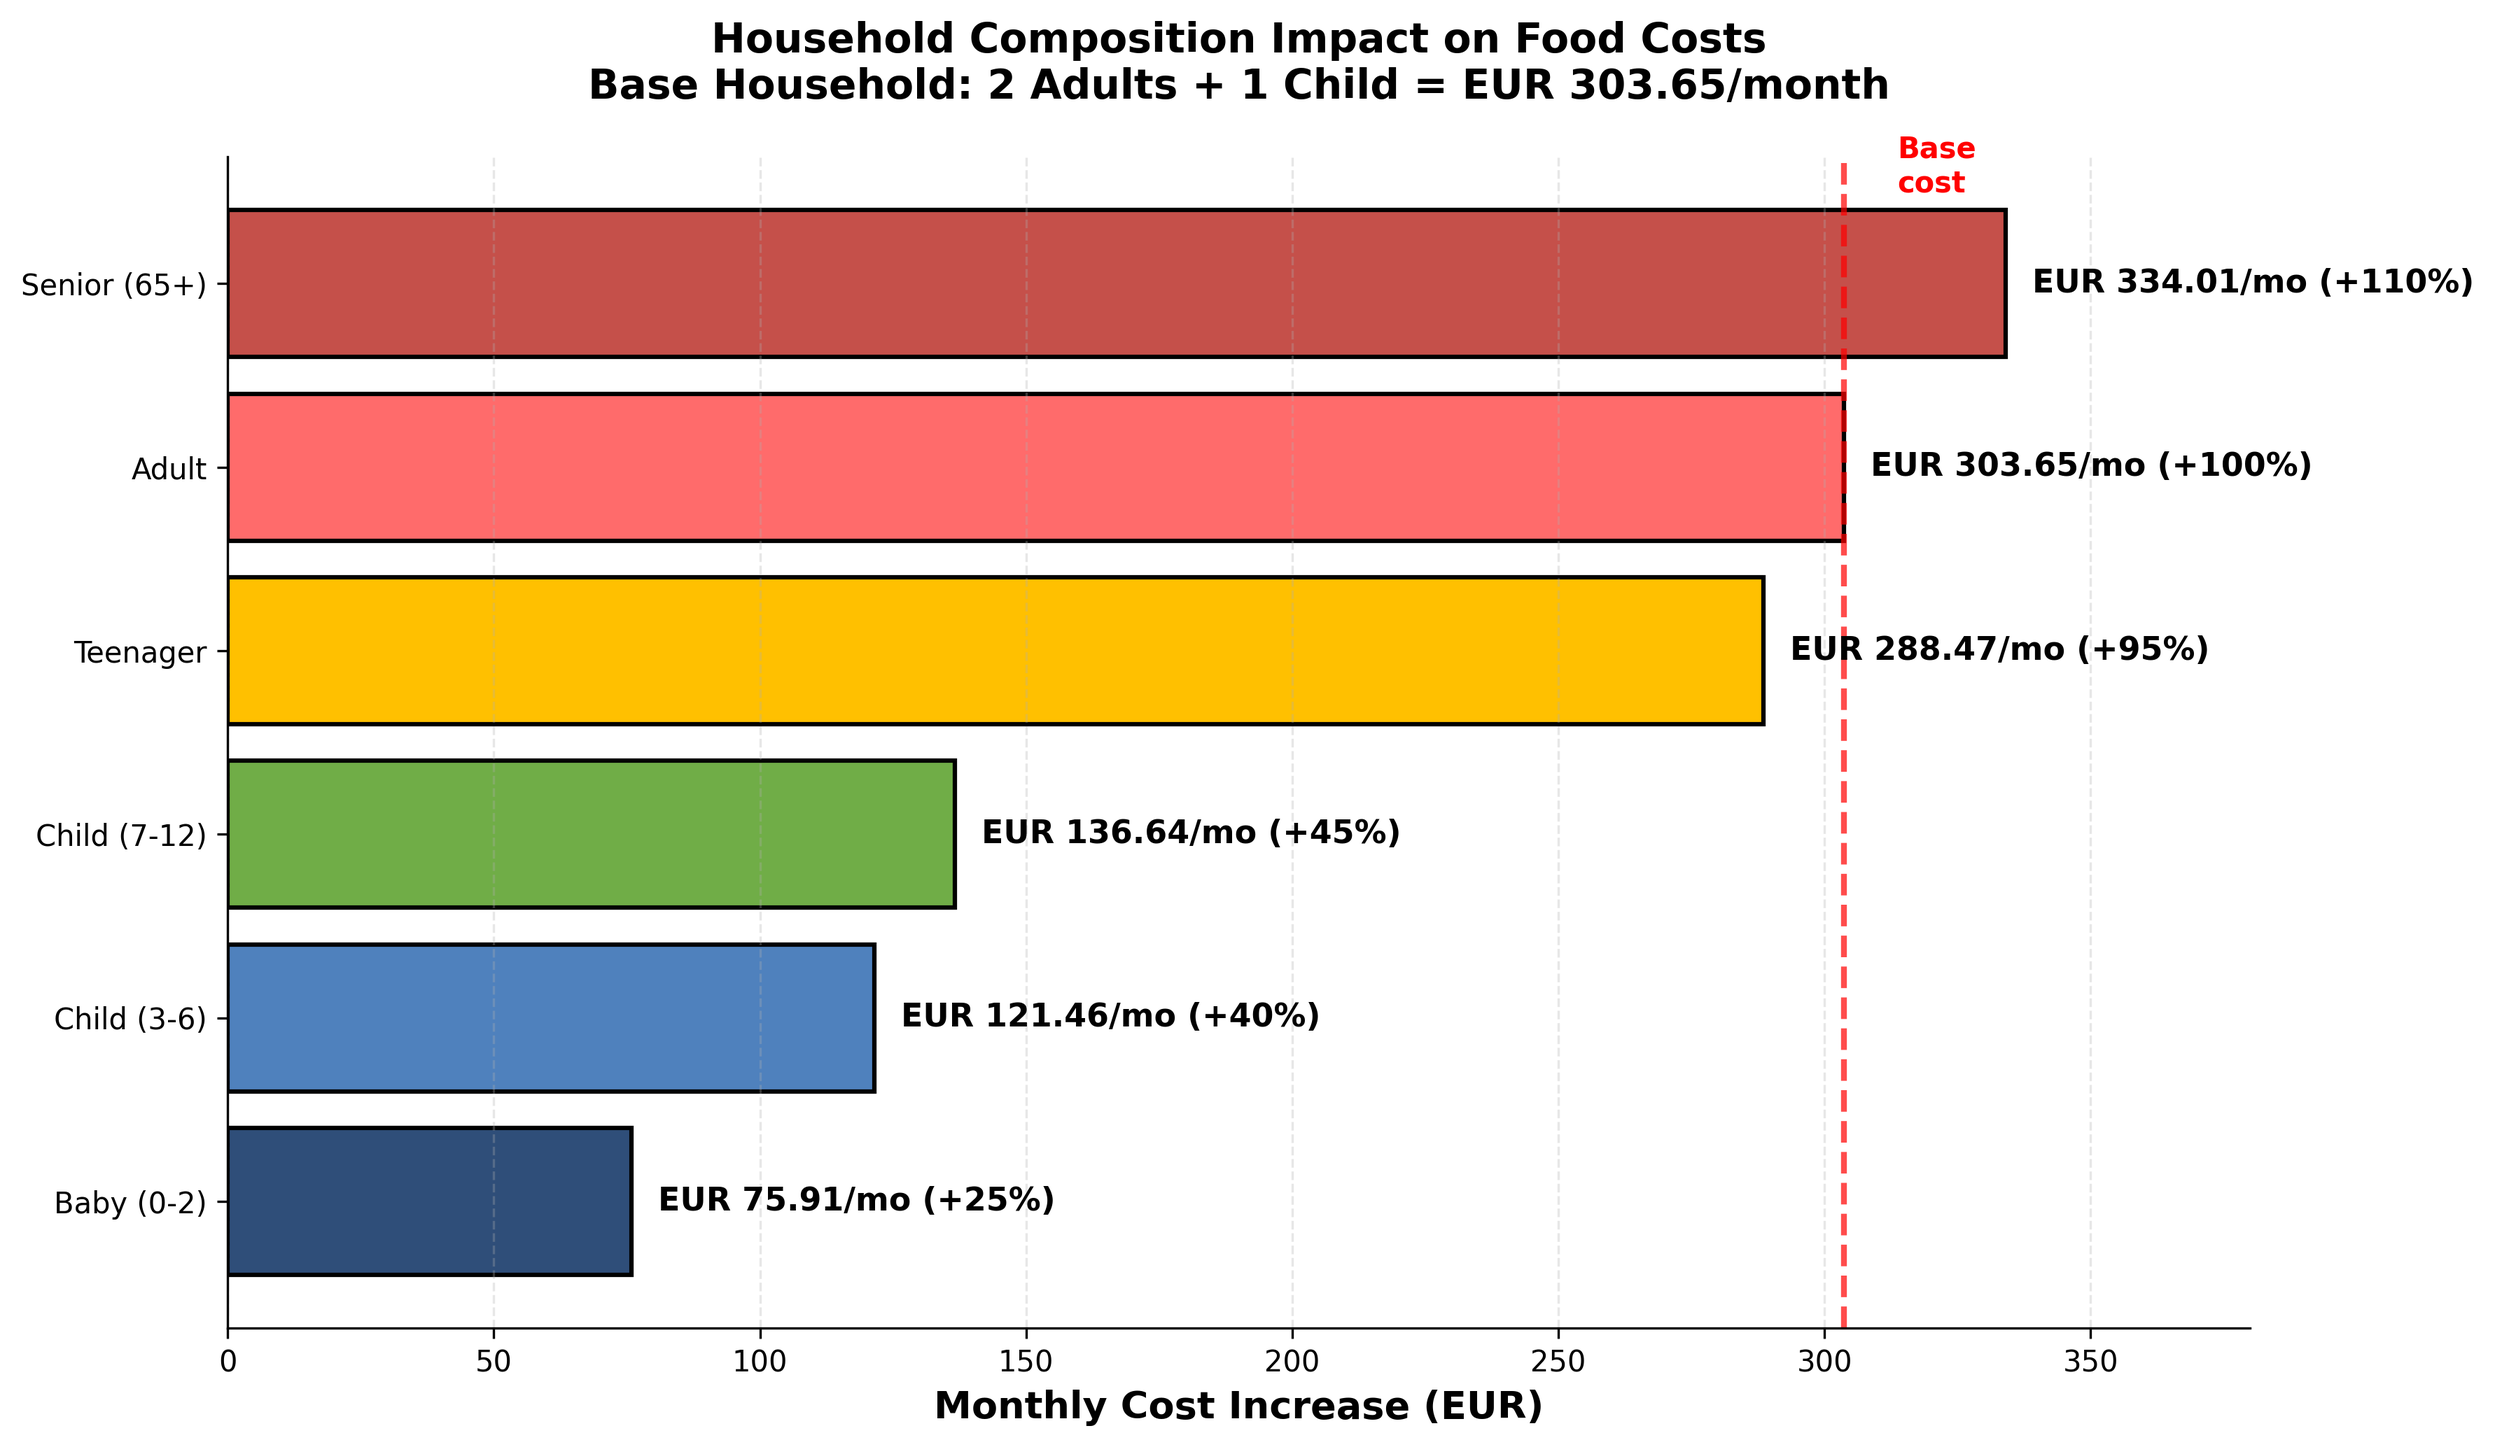
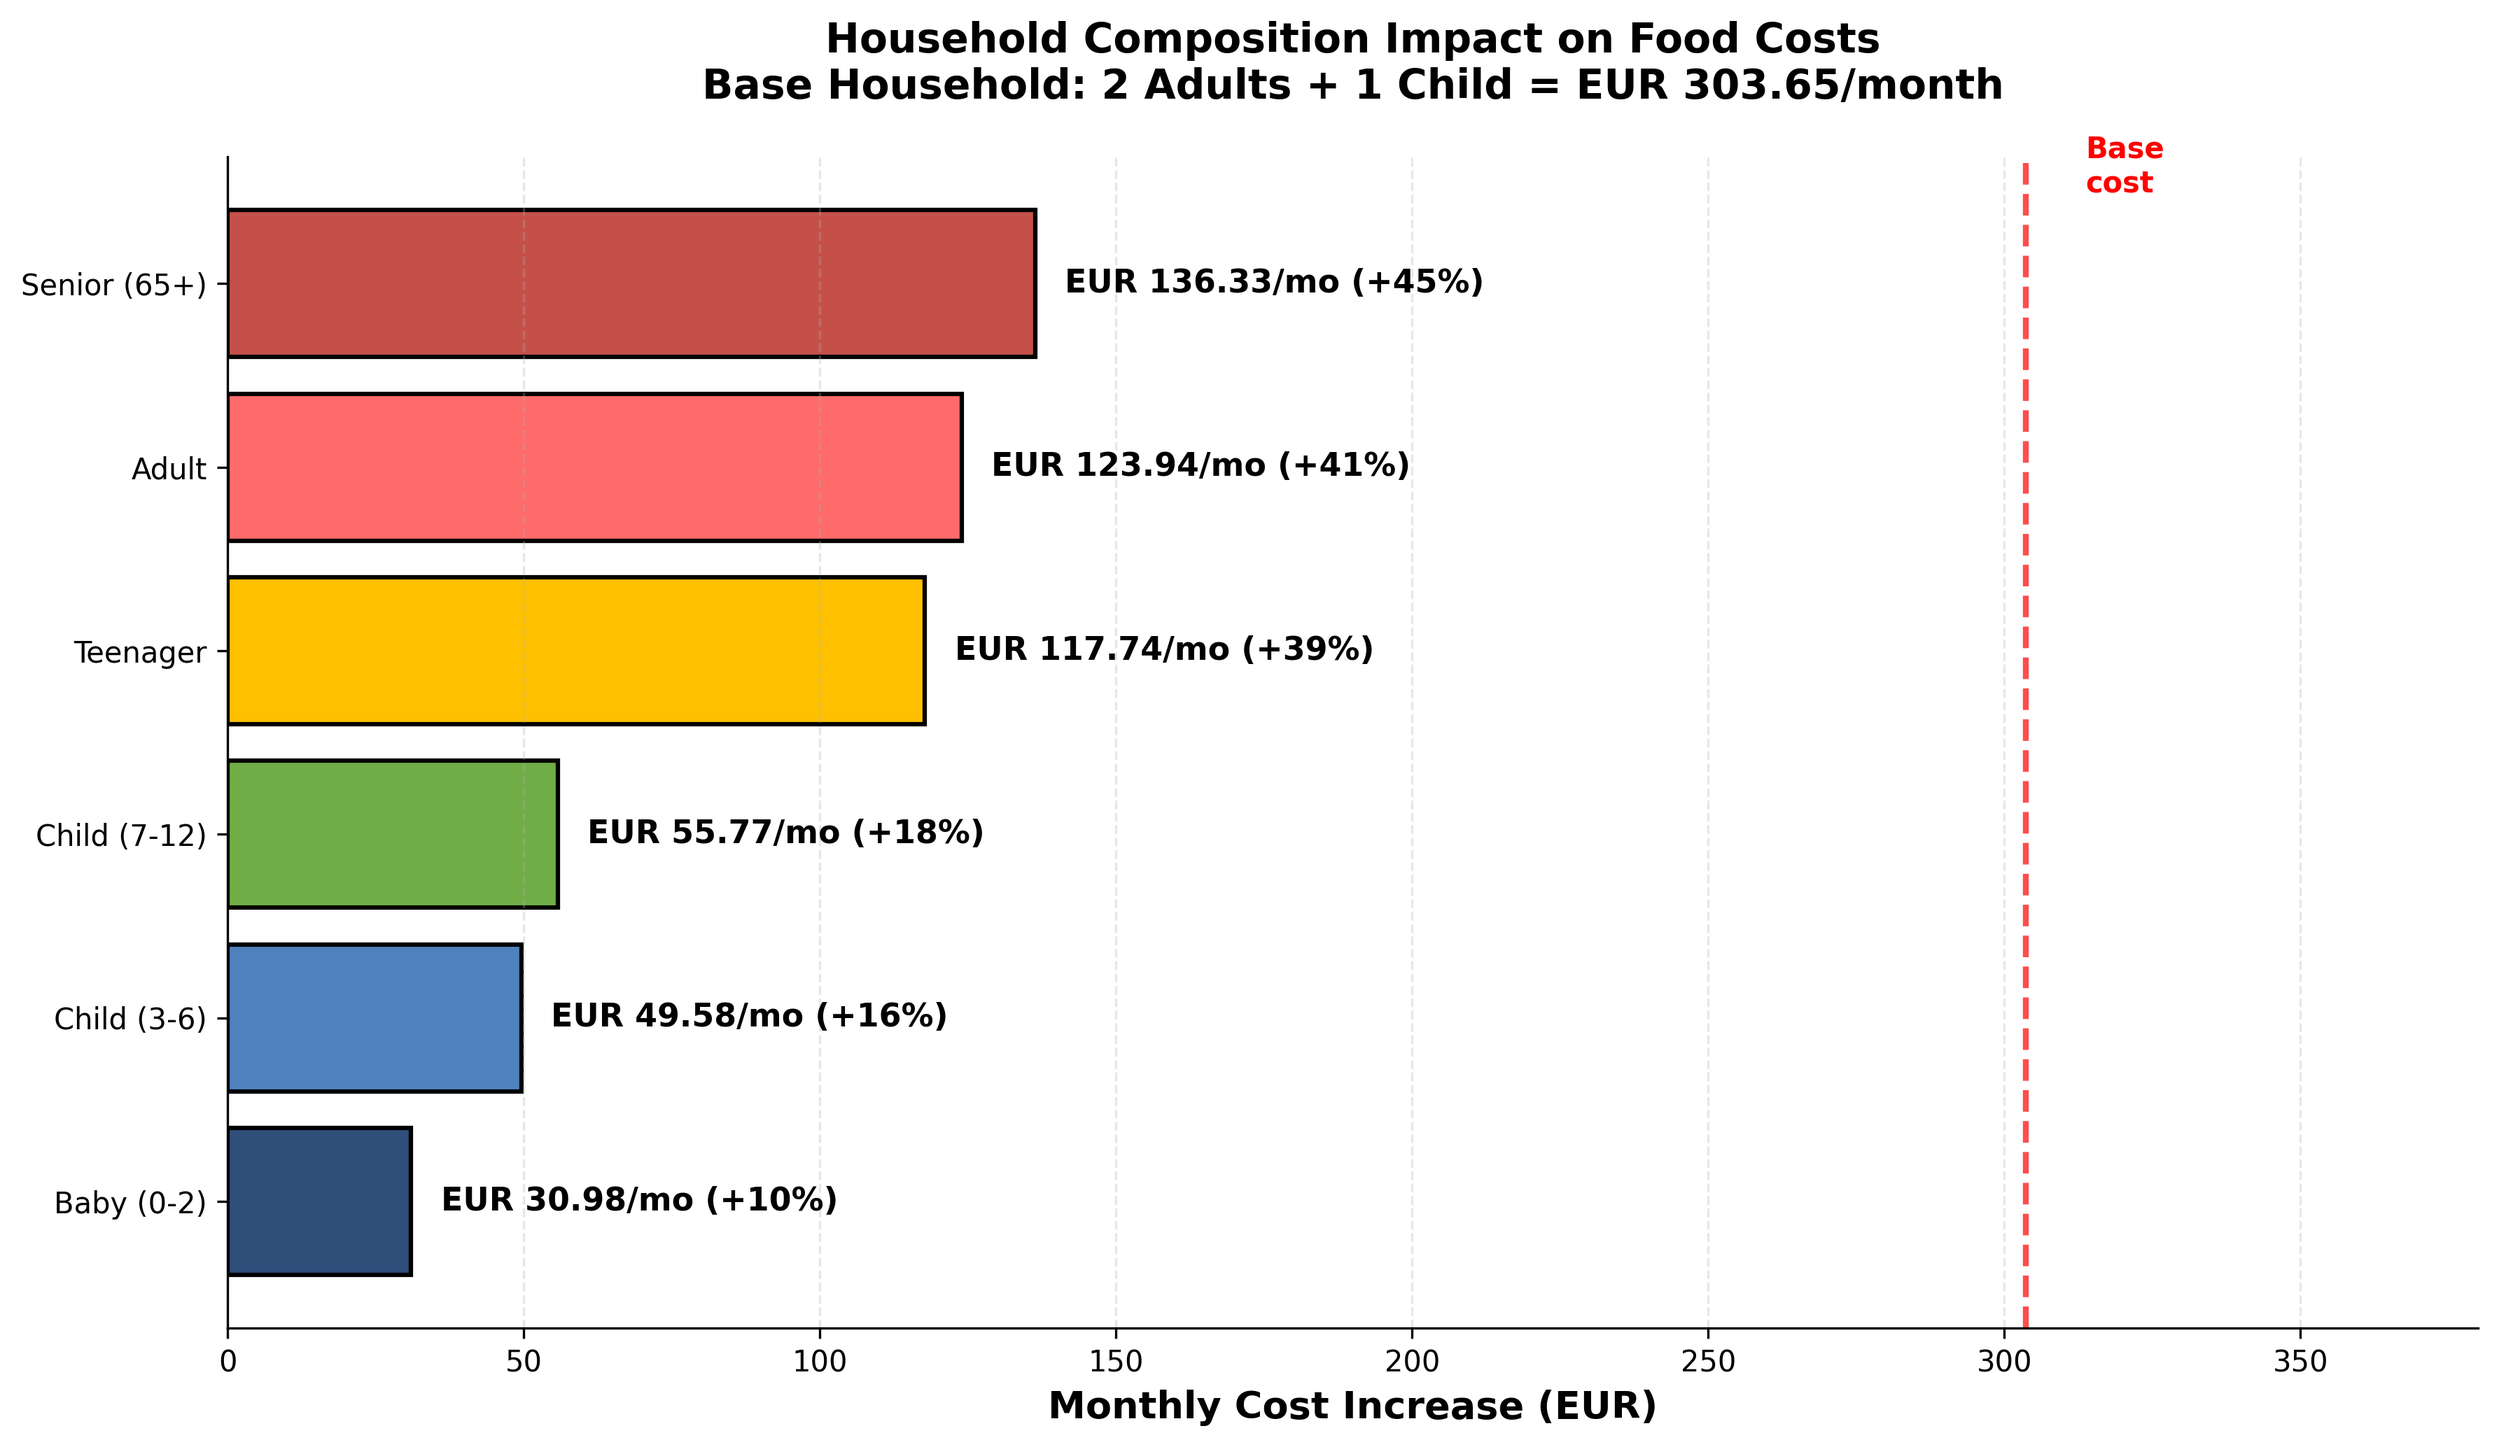
Update all alternative household composition visualizations with corrected per-capita values
- generate_household_visualizations.py: Updated all member costs to per-capita methodology
- Regenerated 06_household_cost_impact.png with corrected values:
  * Baby: EUR 30.98/month (was EUR 75.91)
  * Child (3-6): EUR 49.58/month (was EUR 121.46)
  * Child (7-12): EUR 55.77/month (was EUR 136.64)
  * Teenager: EUR 117.74/month (was EUR 288.47)
  * Adult: EUR 123.94/month (was EUR 303.65)
  * Senior: EUR 136.33/month (was EUR 334.01)
- Regenerated 07_affordability_by_composition.png with corrected costs
- Regenerated 08_remaining_budget_composition.png with corrected costs
- All visualizations consolidated in CAPSTONE_DELIVERABLES/

All 11 visualizations now consistently use per-capita methodology:
Per-capita = EUR 303.65 / 2.45 adult-equivalents = EUR 123.94/month

diff --git a/capstone/synthetic_data/generate_household_visualizations.py b/capstone/synthetic_data/generate_household_visualizations.py
@@ -4,14 +4,16 @@ import numpy as np
 import pandas as pd
 from datetime import datetime
 
-# Household composition data (Real Complete Basket)
+# Household composition data (Real Complete Basket - Per-Capita Methodology)
+# Base: 2 adults + 1 child = 303.65/month / 2.45 AE = 123.94/month per AE
+percapita_cost = 123.94
 members_data = {
-    'Baby (0-2)': {'cost_inc': 75.91, 'pct_inc': 25.0},
-    'Child (3-6)': {'cost_inc': 121.46, 'pct_inc': 40.0},
-    'Child (7-12)': {'cost_inc': 136.64, 'pct_inc': 45.0},
-    'Teenager': {'cost_inc': 288.47, 'pct_inc': 95.0},
-    'Adult': {'cost_inc': 303.65, 'pct_inc': 100.0},
-    'Senior (65+)': {'cost_inc': 334.01, 'pct_inc': 110.0},
+    'Baby (0-2)': {'cost_inc': 30.98, 'pct_inc': 25.0, 'mult': 0.25},
+    'Child (3-6)': {'cost_inc': 49.58, 'pct_inc': 40.0, 'mult': 0.40},
+    'Child (7-12)': {'cost_inc': 55.77, 'pct_inc': 45.0, 'mult': 0.45},
+    'Teenager': {'cost_inc': 117.74, 'pct_inc': 95.0, 'mult': 0.95},
+    'Adult': {'cost_inc': 123.94, 'pct_inc': 100.0, 'mult': 1.0},
+    'Senior (65+)': {'cost_inc': 136.33, 'pct_inc': 110.0, 'mult': 1.10},
 }
 
 base_cost = 303.65  # Real basket base
